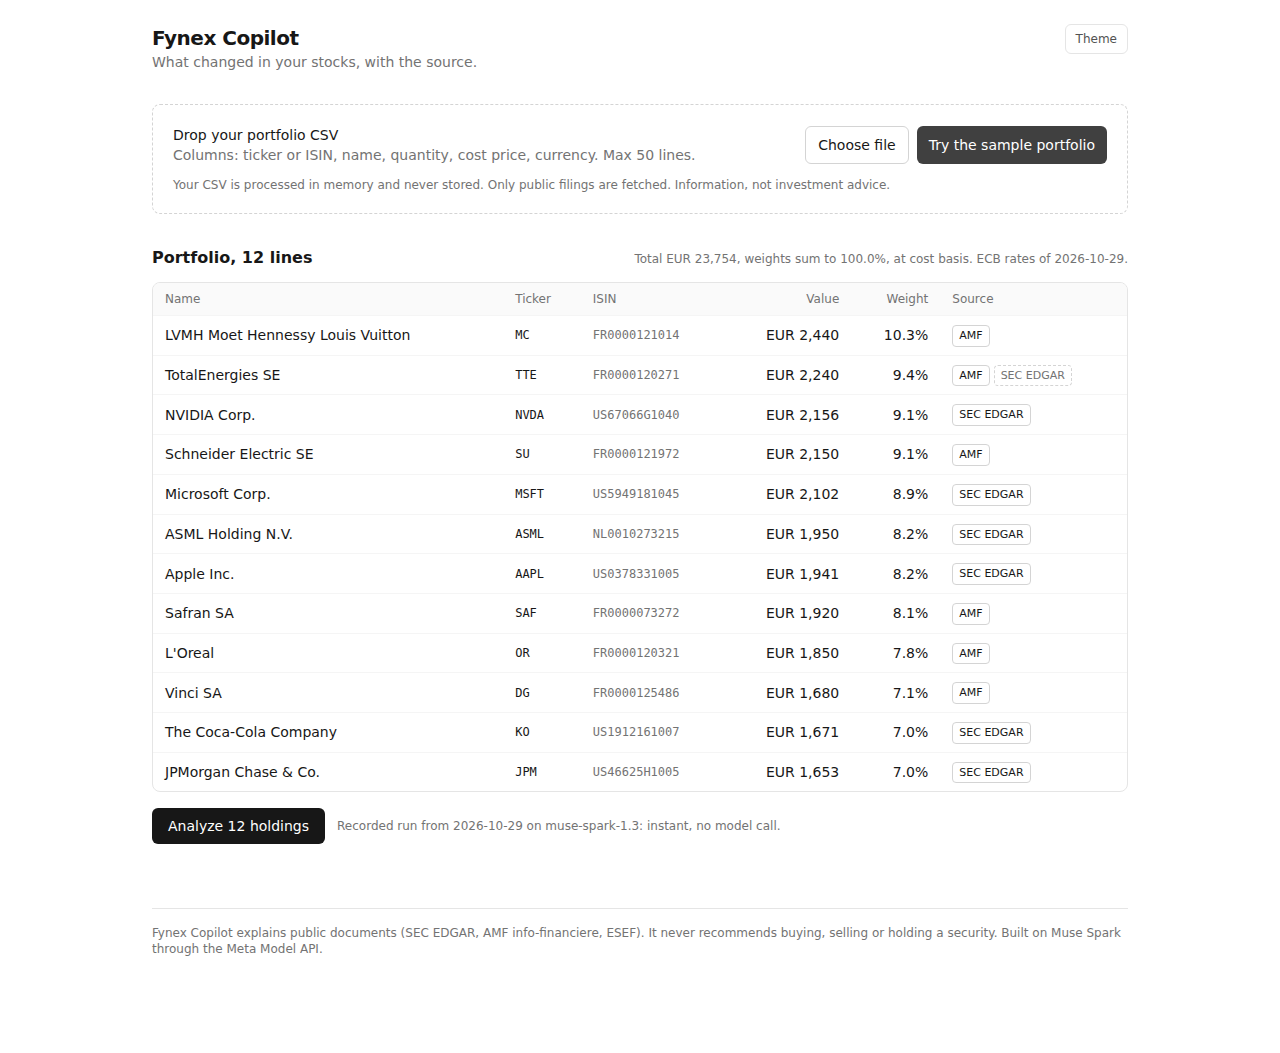
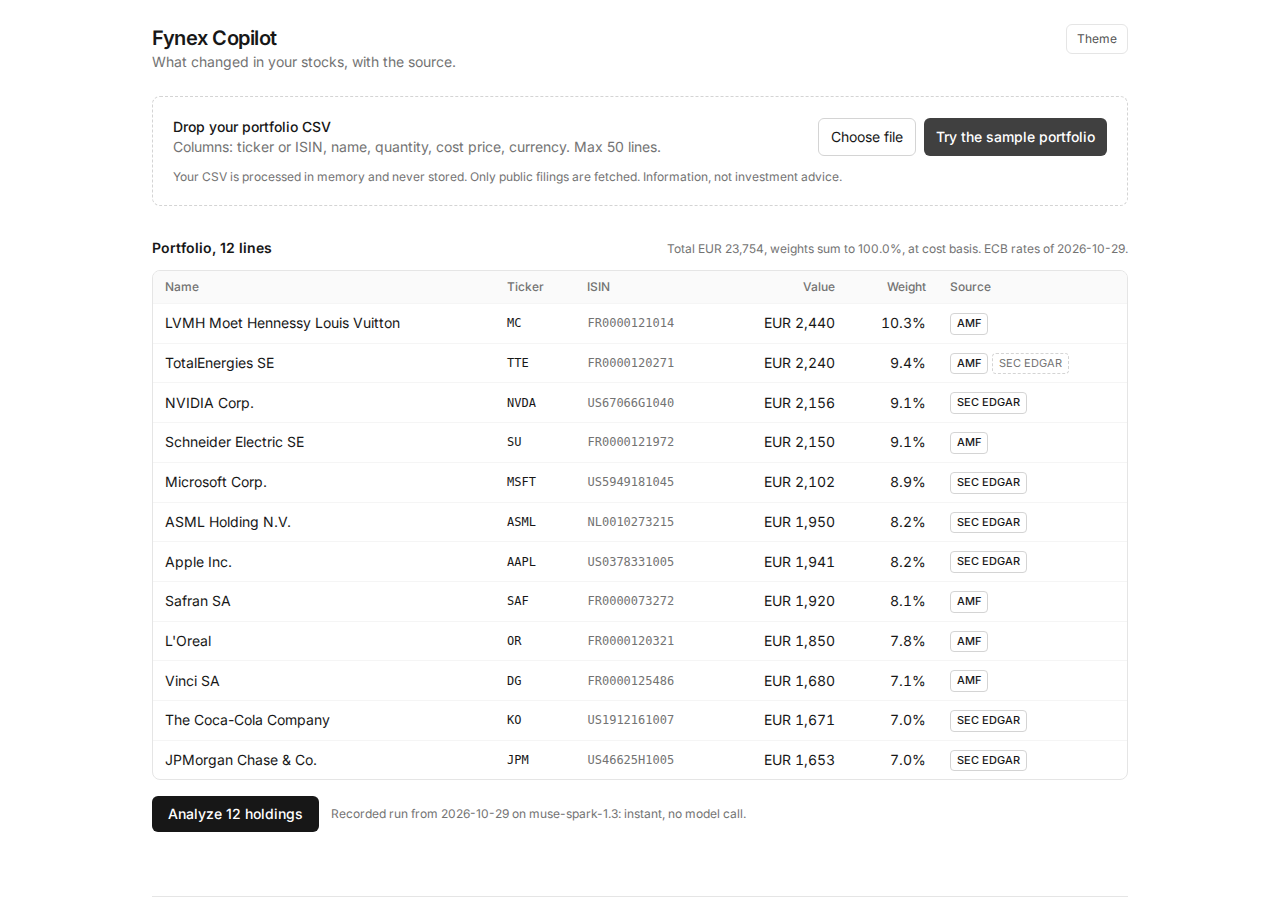
Document the opening block and refresh the screenshots

diff --git a/README.md b/README.md
@@ -14,7 +14,7 @@ It never tells you to buy or sell. It explains documents.
 
 See a real output: [`examples/sample-run.md`](examples/sample-run.md) (12 holdings, 52 claims, 116 quotes, every one verified word for word by the server, $0.67 of Muse Spark).
 
-| Portfolio and "What changed" feed | Source panel on the highlighted passage | Phone, dark mode |
+| Results: largest lines with a material change, then every card | Source panel on the highlighted passage | Phone, dark mode |
 |---|---|---|
 | ![Feed](docs/screenshots/feed.png) | ![Source panel](docs/screenshots/source-panel.png) | ![Mobile](docs/screenshots/mobile-dark.png) |
 
@@ -29,7 +29,7 @@ npm install
 npm run demo        # http://localhost:3000, no key needed
 ```
 
-Click **Try the sample portfolio**, then **Analyze 12 holdings**. Without a key the app replays the recorded live run of [`samples/portfolio.csv`](samples/portfolio.csv) (instant, no model call), labelled "Cached result from 2026-10-29". Click any `[n]` chip to open the source panel on the highlighted passage, and type "Should I sell?" in a card to see the refusal.
+Click **Try the sample portfolio**, then **Analyze 12 holdings**. The results open on the largest lines with a material change, ranked by weight by code, then every card. Without a key the app replays the recorded live run of [`samples/portfolio.csv`](samples/portfolio.csv) (instant, no model call), labelled "Cached result from 2026-10-29". Click any `[n]` chip to open the source panel on the highlighted passage, and type "Should I sell?" in a card to see the refusal.
 
 Live run, with a Meta Model API key:
 
@@ -43,7 +43,7 @@ Other scripts:
 
 | Command | What it does | Cost |
 |---|---|---|
-| `npm test` | 178 unit tests, no network, no model | $0 |
+| `npm test` | 188 unit tests, no network, no model | $0 |
 | `npm run e2e` | Playwright on the recorded sample (needs `npm run build` first) | $0 |
 | `npm run analyze:sample -- --mock --offline` | full pipeline with a deterministic stand-in model and the recorded documents | $0 |
 | `npm run analyze:sample -- --contributor` | live run on `muse-spark-1.3-contributor` (development on public data only) | about $0.03 |
@@ -74,7 +74,8 @@ flowchart LR
 3. **Triage agent.** When several documents are recent, Muse Spark gets three tools (`list_candidate_documents`, `read_document_start`, `select_documents`) and picks the document to analyze plus the previous results release for comparison. In the recorded run it used 2 to 4 tool calls per holding. A deterministic fallback covers a loop that does not finish.
 4. **Analysis.** One Chat Completions call per holding with a strict `json_schema` (status, headline, up to 5 claims, each with 1 to 3 quotes). The long system prompt comes first so Meta's prompt caching shares it across holdings.
 5. **Verification.** The server normalizes both sides (ligatures, soft hyphens, hyphenation across lines, curly quotes, dashes, NBSP) and checks that every quote exists verbatim in the document it cites, then maps it to its page. Every number written by the model must appear in that claim's quotes or in the code-computed list. A claim that fails is dropped; if nothing survives, the model gets one retry with the list of problems; if that fails too, the card falls back to a model-free summary marked "AI summary withheld".
-6. **Follow-up questions** are answered from the same documents with the same verification, at most 3 per holding.
+6. **Opening block.** The results start with up to 3 holdings with a verified material change, ordered by portfolio weight. It is plain code over the cards, with no model call, and ranks by weight only, never by what to do.
+7. **Follow-up questions** are answered from the same documents with the same verification, at most 3 per holding.
 
 ## Meta models used
 
@@ -138,6 +139,7 @@ Everything in this repository was created during the hackathon, starting Oct 27,
 - [x] No-advice guardrail (input and output filters)
 - [x] Web app: upload, "What changed" feed, source panel with highlighted passage, follow-up questions
 - [x] Budget caps and cost accounting
+- [x] Opening block: the largest lines with a material change, ranked by portfolio weight by code from the cards (no model call), each leading to its card and source
 
 The commit history of this repo is the record of the work. Build notes and verified API facts: [NOTES.md](NOTES.md). Plan: [PLAN.md](PLAN.md). Demo video plan: [docs/demo-video.md](docs/demo-video.md).
 

diff --git a/NOTES.md b/NOTES.md
@@ -45,6 +45,16 @@ Log of deviations from PLAN.md, verified API facts and spend, kept by the buildi
 
 Recorded run (fixtures/sample-run.json): 12 of 12 cards `ok`, 52 claims, 116 quotes, all verified; one card (Schneider) needed the retry because its first answer hit `max_tokens` (fixed by raising it). 277k input tokens (38k cached), 85k output tokens of which 72k reasoning, $0.67.
 
+## 2026-11-02 (improvements before the new video)
+
+### Opening block and feed hierarchy
+
+- `lib/lead.ts` picks up to 3 `ok` cards with `material_change`, heaviest first (missing weights last, ties on rank then name). `components/LeadChanges.tsx` renders them under the "What changed" heading. No new model call, the recording is untouched. In the sample all 12 cards are material, so the block shows LVMH, TotalEnergies, NVIDIA (Schneider ties NVIDIA at 9.1% and is rank 4).
+- The block waits until no card is loading: during a live run a heavier line may still be pending.
+- Once a run starts, the upload zone and the holdings table fold away (a "Show holdings" button brings them back) and the page returns to the top, so the results are the first screen. On a phone the Analyze button is far below the fold: without the scroll reset the user landed in the middle of the feed.
+- Font: Inter from `@fontsource-variable/inter` through `next/font/local`, bundled at build time, no network at build or at runtime (OFL). Latin subset only.
+- Selectors kept for `../video/scripts/`: `try-sample`, `analyze`, `holding-row`, `source-badge`, `weight-sum`, `card`, `claim`, `source-chip`, `quote-mark`, `source-panel`, `card-footer`, `ask-input`, `ask-submit`, `ask-answer`, `article[data-holding]`, `p.font-medium` as the card headline, the heading "What changed", `claim.locator('p').nth(1)`. Behavior changes for the capture script: `holding-row`, `analyze` and "Drop your portfolio CSV" leave the DOM once a run starts, and the page scrolls to the top on Analyze. The status label in a card is now plain text, still "Material change".
+
 ### Still to do (M6 and M7)
 
 - Re-run the sample live around Nov 2 to pick up the releases of Oct 30 onwards (Apple's quarter, more Q3 releases), review every card by hand, re-record (`npm run analyze:sample -- --record`, about $0.70).

diff --git a/PLAN.md b/PLAN.md
@@ -388,6 +388,11 @@ Dates are in Paris time. Each milestone ends with: all tests green, PLAN.md boxe
 - [ ] Optional stretch, only if everything above is done: (a) Baseten / Muse Spark Open provider toggle shown in the UI footer; (b) XBRL companyfacts for US holdings to show code-computed YoY revenue next to the model's claim; (c) "compare with previous release" diff view.
 - **Done when:** README is complete, a stranger can follow it, and the demo script (section 12) runs start to finish without a hiccup twice in a row.
 
+### M6b: Opening screen and hierarchy (Mon Nov 2, added)
+
+- [x] Opening block: up to 3 holdings with a material change, ordered by weight, computed by code from the cards (`lib/lead.ts`). Handles 0, 1 or 2 changes, missing weights, long names, phone width, dark mode.
+- [x] Feed hierarchy: type scale, spacing, status groups, self-hosted font. Setup folds away once a run starts.
+
 ### M7: Freeze (Tue Nov 3, 21:00 Paris)
 - [ ] Feature freeze. Only bug fixes after this point.
 - [ ] Final fixture recording, tag `v1.0-hackathon`.
@@ -418,6 +423,7 @@ Dates are in Paris time. Each milestone ends with: all tests green, PLAN.md boxe
 4. Every claim shows at least one source chip; click the first chip of the largest holding; expect the source panel with a `mark` element whose text equals the quote after normalization.
 5. Type "Should I sell?" in a follow-up box; expect the refusal text and no network call to `/api/ask` model path (assert via a request counter).
 6. Toggle dark mode, viewport 390x844: no horizontal scroll.
+7. Opening block: 3 rows in weight order, a row leads to its card and to its source; rewritten cards cover 0, 1 and 2 material changes, a missing weight and a long unbroken name at phone width.
 
 **Live check (manual script, costs money, not in CI):** `npm run analyze:sample -- --live` prints per-holding status, verified quote count, retries, cost, and the total.
 
